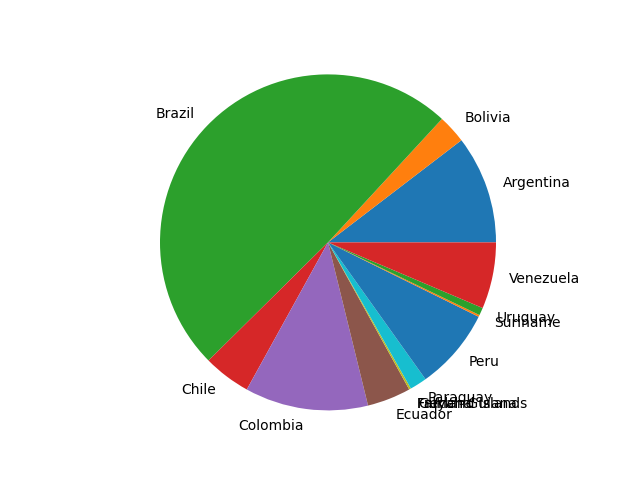
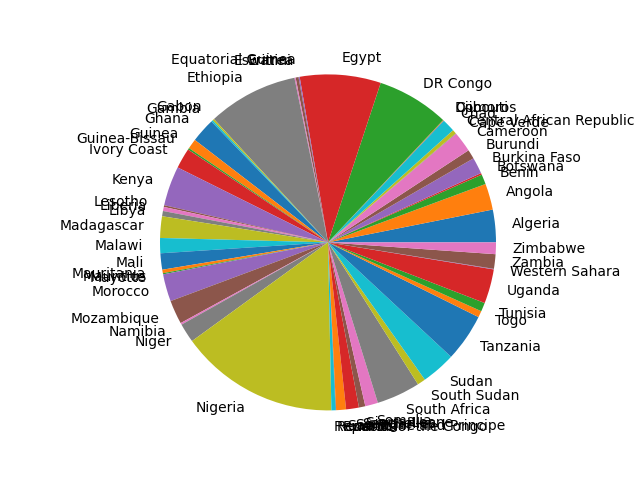
Testing Pandas

Changed region(s): [[0.0938, 0.0938, 1.0, 0.9062]]

diff --git a/py-project/app/main.py b/py-project/app/main.py
@@ -1,6 +1,7 @@
 import utils
 import read_csv
 import chart
+import pandas as pd
 
 #Solución con GPT
 '''
@@ -18,6 +19,7 @@ def run():
 '''
 
 #Solución Clase
+'''
 def run():
     data = read_csv.read_csv('data.csv')
     #Se agrega un filtro por continente
@@ -35,6 +37,20 @@ def run():
         country = result[0]
         labels, values = utils.get_population(country)
         chart.generate_bar_chart(country['Country/Territory'], labels, values)
+
+
+data = read_csv.read_csv('data.csv')         
+'''
+
+
+#Solución con Pandas
+def run():
+    df = pd.read_csv('data.csv')
+    df = df[df['Continent'] == 'Africa']
+
+    countries = df['Country/Territory'].values
+    percentages = df['World Population Percentage'].values
+    chart.generate_pie_chart(countries, percentages)
 
 
 if __name__ == '__main__':
